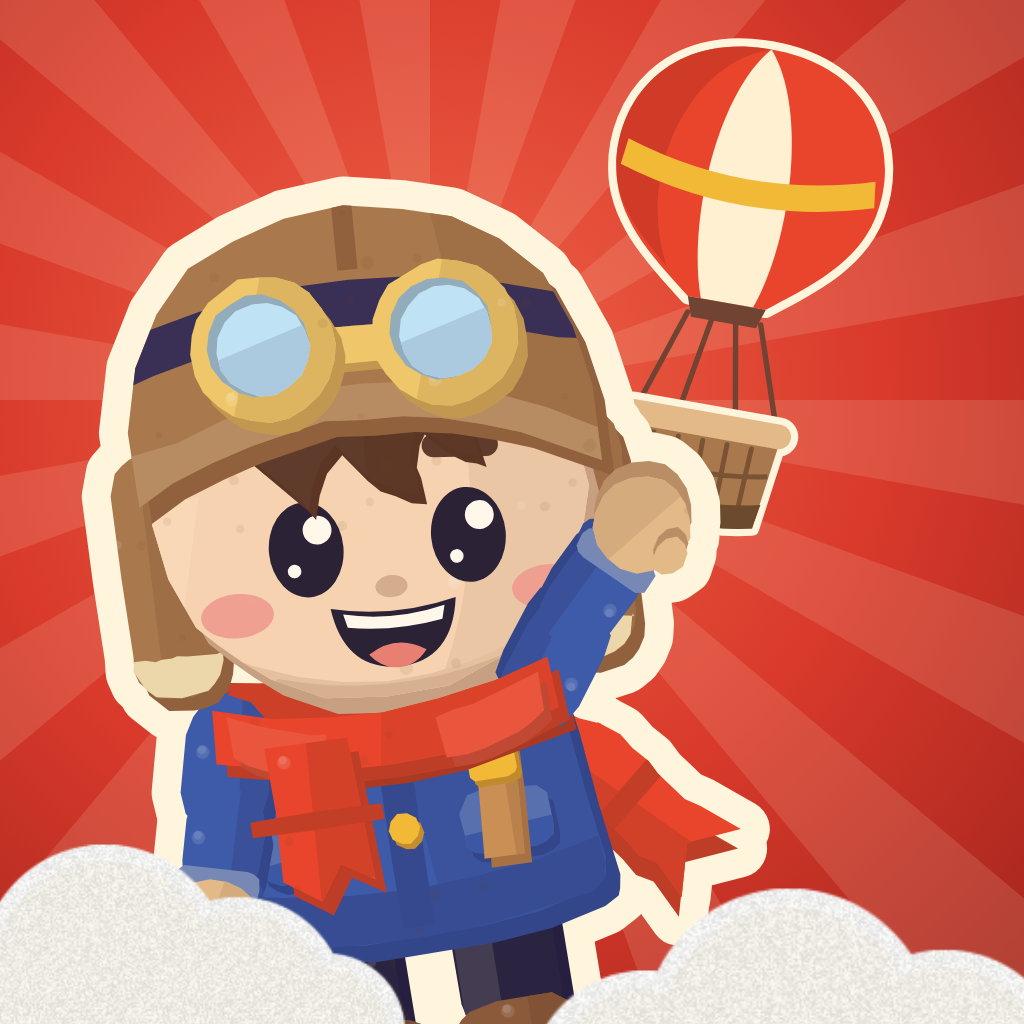
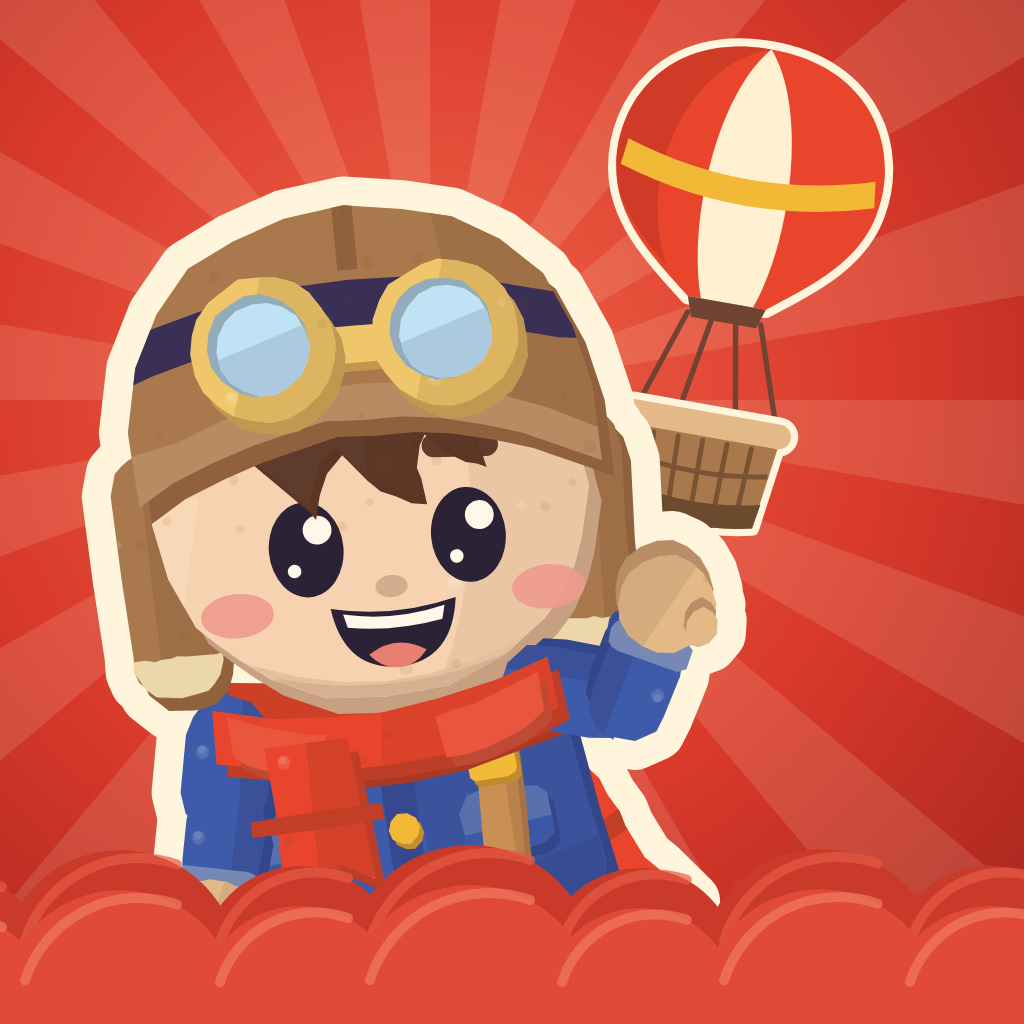
Ícono: brazo que saluda bien afuera (mano a la altura de la cabeza, separada de la cara), punta de la bufanda cayendo por detrás y vuelven las nubes rojas de papel
Claude-Session: https://claude.ai/code/session_017FkcQpDzkf2gnNUK4w8AxS

Changed region(s): [[0.0, 0.4062, 1.0, 1.0]]

diff --git a/scripts/iconos/icono.html b/scripts/iconos/icono.html
@@ -12,7 +12,7 @@ const c=document.getElementById('c'); c.style.width=c.style.height=S+'px';
 const H=heroFor('nilo','base');
 // pose del ícono: 'saludo' = brazo derecho arriba y afuera, bufanda cayendo por detrás; 'juego' = Nilo quieto como en los diálogos
 const pose=(s,P)=>s.replace(/<g data-j="(\w+)"([^>]*?)transform="([^"]*)"/g,(m,j,a,t)=>P[j]!=null?`<g data-j="${j}"${a}transform="${P[j]}"`:m);
-const SALUDO=pose(H.wave[3],{aU:'translate(79.2 59.97) rotate(-145)',aUf:'translate(0 10.6) rotate(10)',ht1:'translate(71 60.2) rotate(35)',ht2:'translate(14.6 0) rotate(15)'});
+const SALUDO=pose(H.wave[3],{aU:'translate(79.2 59.97) rotate(-72)',aUf:'translate(0 10.6) rotate(-78)',ht1:'translate(71 60.2) rotate(55)',ht2:'translate(14.6 0) rotate(10)'});
 const JUEGO=H.idle[0];
 const POSE=(q.get('pose')||'saludo')==='juego'?JUEGO:SALUDO;
 let cloud=''; try{cloud=P.artThumb('nube');}catch(e){}
@@ -30,8 +30,8 @@ const NX=L.nx??-150, NY=L.ny??150, NW=L.nw??1060, BX=L.bx??610, BY=L.by??30, BW=
 const clouds=(y,col,hi)=>{const C=[[-40,70],[120,95],[300,80],[470,100],[640,78],[820,96],[990,80]];return `<svg viewBox="0 0 1024 1024" width="${S}" height="${S}" style="position:absolute;inset:0"><g transform="translate(0 ${y})">${C.map(([x,r])=>`<circle cx="${x}" cy="${r*.2}" r="${r*1.25}" fill="${col}"/>`).join('')}<rect x="-50" y="30" width="1124" height="400" fill="${col}"/>${C.map(([x,r])=>`<path d="M${x-r} ${r*.2-r*.3} A${r*1.25} ${r*1.25} 0 0 1 ${x+r*.6} ${r*.2-r*1.1}" stroke="${hi}" stroke-width="10" fill="none" stroke-linecap="round" opacity=".7"/>`).join('')}</g></svg>`;};
 let h='';
 if(mode!=='fg') h+=BG;
-if(mode==='icon'){ h+=bal(BX,BY,BW,10,''); h+=nilo(NX,NY,NW,L.rot??-9,POSE); h+=img(cloud,-160,820,600,1)+img(cloud,480,860,700,1);}
+if(mode==='icon'){ h+=bal(BX,BY,BW,10,''); h+=nilo(NX,NY,NW,L.rot??-9,POSE); h+=clouds(950,'#C93A2B','#E55A45')+clouds(990,'#E04A36','#F07A60');}
  // Android adaptativo: las nubes van en el fondo
-if(mode==='fg'){ h+=bal(610,165,200,10,''); h+=nilo(90,210,780,-9,POSE); h+=img(cloud,-40,720,540,1)+img(cloud,460,750,580,1);} // Android adaptativo: todo dentro del círculo seguro
+if(mode==='fg'){ h+=bal(610,165,200,10,''); h+=nilo(90,210,780,-9,POSE); h+=clouds(865,'#C93A2B','#E55A45')+clouds(900,'#E04A36','#F07A60');} // Android adaptativo: todo dentro del círculo seguro
 c.innerHTML=h; document.title='ok';
 </script></body></html>
